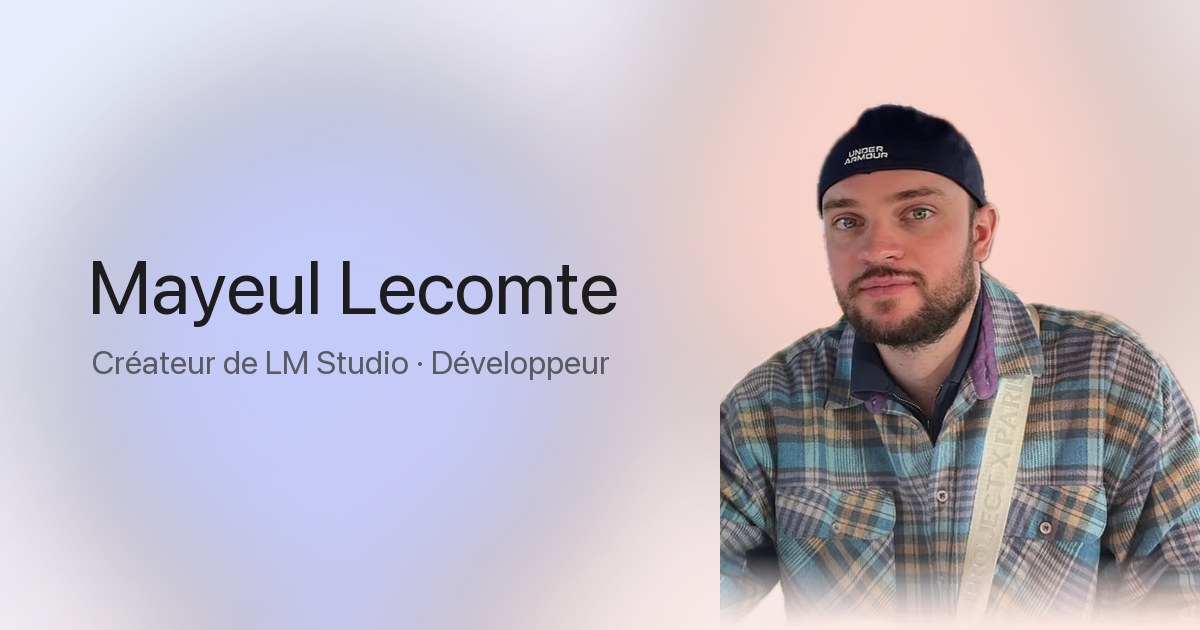
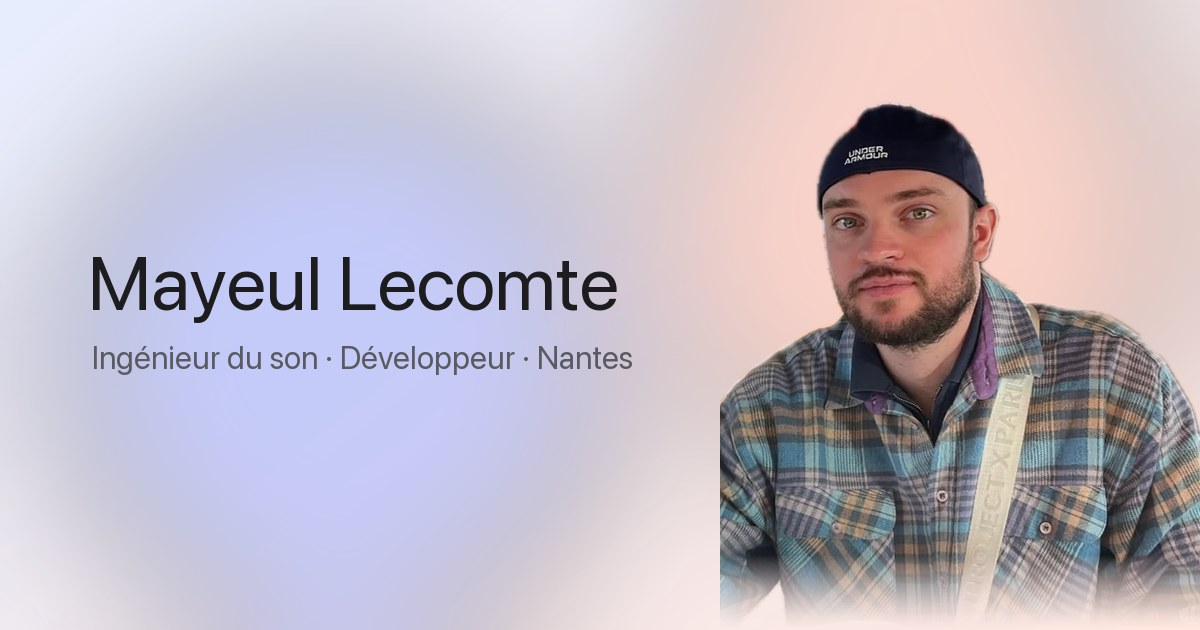
Positionnement ingenieur du son + developpeur, cadrage des bulles

Changed region(s): [[0.0617, 0.5429, 0.5242, 0.6032], [0.2775, 0.4222, 0.5242, 0.5127], [0.0617, 0.4222, 0.2467, 0.5127]]

diff --git a/index.html b/index.html
@@ -4,8 +4,8 @@
 <meta charset="utf-8">
 <meta name="viewport" content="width=device-width, initial-scale=1, viewport-fit=cover">
 
-<title>Mayeul Lecomte — Créateur de LM Studio, développeur à Nantes</title>
-<meta name="description" content="Mayeul Lecomte, Nantes. Créateur de LM Studio, studio d'enregistrement, et développeur d'applications web. Site officiel.">
+<title>Mayeul Lecomte — Ingénieur du son et développeur, Nantes</title>
+<meta name="description" content="Mayeul Lecomte, ingénieur du son et développeur à Nantes. Fondateur de LM Studio, studio d'enregistrement. Prise de voix, mixage, mastering et applications web.">
 <meta name="author" content="Mayeul Lecomte">
 <link rel="canonical" href="https://mayeullecomte.github.io/">
 <meta name="robots" content="index, follow, max-image-preview:large">
@@ -13,16 +13,16 @@
 
 <meta property="og:type" content="profile">
 <meta property="og:site_name" content="Mayeul Lecomte">
-<meta property="og:title" content="Mayeul Lecomte — Créateur de LM Studio, développeur">
-<meta property="og:description" content="Mayeul Lecomte, Nantes. Créateur du studio d'enregistrement LM Studio et développeur d'applications web.">
+<meta property="og:title" content="Mayeul Lecomte — Ingénieur du son et développeur">
+<meta property="og:description" content="Ingénieur du son et développeur à Nantes. Fondateur de LM Studio, studio d'enregistrement.">
 <meta property="og:url" content="https://mayeullecomte.github.io/">
 <meta property="og:image" content="https://mayeullecomte.github.io/assets/og.jpg">
 <meta property="og:locale" content="fr_FR">
 <meta property="profile:first_name" content="Mayeul">
 <meta property="profile:last_name" content="Lecomte">
 <meta name="twitter:card" content="summary_large_image">
-<meta name="twitter:title" content="Mayeul Lecomte — Créateur de LM Studio, développeur">
-<meta name="twitter:description" content="Créateur du studio d'enregistrement LM Studio à Nantes. Développeur.">
+<meta name="twitter:title" content="Mayeul Lecomte — Ingénieur du son et développeur">
+<meta name="twitter:description" content="Ingénieur du son et développeur à Nantes. Fondateur de LM Studio.">
 <meta name="twitter:image" content="https://mayeullecomte.github.io/assets/og.jpg">
 
 <link rel="preconnect" href="https://fonts.googleapis.com">
@@ -40,7 +40,7 @@
   "familyName":"Lecomte",
   "url":"https://mayeullecomte.github.io/",
   "image":"https://mayeullecomte.github.io/assets/og.jpg",
-  "jobTitle":["Fondateur de LM Studio","Développeur web"],
+  "jobTitle":["Ingénieur du son","Développeur web","Fondateur de LM Studio"],
   "address":{"@type":"PostalAddress","addressLocality":"Nantes","postalCode":"44000","addressCountry":"FR"},
   "worksFor":{
     "@type":"Organization",
@@ -49,7 +49,7 @@
     "description":"Studio d'enregistrement à Nantes",
     "address":{"@type":"PostalAddress","streetAddress":"88 avenue de la Baraudière","addressLocality":"Nantes","postalCode":"44000","addressCountry":"FR"}
   },
-  "knowsAbout":["Studio d'enregistrement","Mixage","Mastering","Développement web","JavaScript"],
+  "knowsAbout":["Ingénierie du son","Prise de voix","Mixage","Mastering","Développement web","JavaScript"],
   "sameAs":["https://lmstudio-nantes.fr","https://www.instagram.com/mayeul_lecomte/"]
 }
 </script>
@@ -81,7 +81,7 @@
     </div>
 
     <h1>Mayeul Lecomte</h1>
-    <p class="role">Créateur de <b>LM Studio</b>, à Nantes. Et <b>développeur</b>.</p>
+    <p class="role"><b>Ingénieur du son</b> et <b>développeur</b>. Fondateur de LM&nbsp;Studio, à Nantes.</p>
 
     <div class="cta">
       <a class="btn btn-primary reveal-mail" href="#contact"><span class="lbl">Me contacter</span> <span class="arrow">→</span></a>
@@ -90,8 +90,8 @@
   </section>
 
   <section class="wrap intro rise">
-    <p>Bonjour. Je passe mes journées entre deux tables&nbsp;: une console d'enregistrement et un clavier.</p>
-    <p>J'ai monté LM Studio à Nantes pour que les artistes du coin aient un endroit où poser leur voix sans se ruiner. Le reste du temps, je développe des applications web — de l'idée à la mise en ligne, seul aux commandes.</p>
+    <p>Deux métiers, la même exigence&nbsp;: que le résultat sonne juste.</p>
+    <p>J'ai fondé LM Studio à Nantes pour offrir aux artistes un lieu d'enregistrement à la hauteur de leurs projets&nbsp;: prise de voix, mixage, mastering. En parallèle, je conçois et développe des applications web, de la première maquette à la mise en ligne.</p>
   </section>
 
   <section id="studio" class="wrap">
@@ -100,7 +100,7 @@
       <div class="txt">
         <div class="eyebrow warm"><i></i> Mon studio</div>
         <h2>LM Studio</h2>
-        <p>Studio d'enregistrement à Nantes. Tout s'y passe&nbsp;: tarifs, matériel, réservation.</p>
+        <p>Studio d'enregistrement à Nantes. Prise de voix, mixage, mastering&nbsp;— tarifs, matériel et réservation sur le site.</p>
       </div>
       <span class="go"><span>lmstudio-nantes.fr</span> <span class="arrow">↗</span></span>
     </a>
@@ -108,7 +108,7 @@
 
   <section id="projets" class="wrap rise">
     <div class="eyebrow"><i></i> Développement</div>
-    <h2 style="font-size:clamp(1.8rem,4.2vw,2.6rem)">Ce que je construis</h2>
+    <h2 style="font-size:clamp(1.8rem,4.2vw,2.6rem)">Ce que je développe</h2>
     <div class="grid3">
       <div class="card proj">
         <h3>MySaphir</h3>
@@ -125,7 +125,7 @@
 
   <section id="contact" class="wrap contact rise">
     <h2>On en parle&nbsp;?</h2>
-    <p>Un morceau à enregistrer, un projet à développer.</p>
+    <p>Un enregistrement, un mixage, un projet web&nbsp;: parlons-en.</p>
     <div class="pills">
       <a class="pill reveal-mail" href="#contact"><span class="ico">✉</span> <span class="lbl">Afficher mon email</span></a>
       <a class="pill" href="https://www.instagram.com/mayeul_lecomte/" target="_blank" rel="noopener">📷 @mayeul_lecomte</a>

diff --git a/contact.html b/contact.html
@@ -5,7 +5,7 @@
 <meta name="viewport" content="width=device-width, initial-scale=1, viewport-fit=cover">
 
 <title>Contact — Mayeul Lecomte</title>
-<meta name="description" content="Contacter Mayeul Lecomte, créateur de LM Studio à Nantes et développeur : email et Instagram.">
+<meta name="description" content="Contacter Mayeul Lecomte, ingénieur du son et développeur à Nantes, fondateur de LM Studio : email et Instagram.">
 <link rel="canonical" href="https://mayeullecomte.github.io/contact.html">
 <meta name="robots" content="index, follow">
 <meta name="theme-color" content="#fbfbfd">
@@ -13,7 +13,7 @@
 <meta property="og:type" content="profile">
 <meta property="og:site_name" content="Mayeul Lecomte">
 <meta property="og:title" content="Contact — Mayeul Lecomte">
-<meta property="og:description" content="Écrire à Mayeul Lecomte, créateur de LM Studio à Nantes.">
+<meta property="og:description" content="Écrire à Mayeul Lecomte, ingénieur du son et développeur à Nantes.">
 <meta property="og:url" content="https://mayeullecomte.github.io/contact.html">
 <meta property="og:image" content="https://mayeullecomte.github.io/assets/og.jpg">
 <meta property="og:locale" content="fr_FR">
@@ -31,7 +31,7 @@
   background:conic-gradient(from 210deg,#cfe0ff,#dcd9ff,#e9d6ff,#ffd9cf,#d6f0ff,#cfe0ff);
   box-shadow:0 20px 40px -18px rgba(30,40,90,.4), inset 0 0 0 1px rgba(255,255,255,.7);
 }
-.contact-page .avatar img{width:130%;height:auto;max-width:none;margin-left:4%;margin-top:13%;display:block}
+.contact-page .avatar img{width:125%;height:auto;max-width:none;margin-left:-12.5%;margin-top:6%;display:block}
 .mail-line{
   display:inline-flex;align-items:center;gap:12px;margin-top:30px;padding:18px 30px;border-radius:999px;
   background:rgba(255,255,255,.75);border:1px solid var(--line);
@@ -55,7 +55,7 @@
   background:conic-gradient(from 210deg,#5e5ce6,#0a84ff,#6fd3e8,#ffb37a,#ff6b5a,#5e5ce6);
 }
 .ring-in{display:block;width:100%;height:100%;border-radius:50%;overflow:hidden;border:2.5px solid var(--bg);background:linear-gradient(155deg,#dfe7ff,#ffe4d8)}
-.ring-in img{width:130%;height:auto;max-width:none;margin-left:4%;margin-top:13%;display:block}
+.ring-in img{width:125%;height:auto;max-width:none;margin-left:-12.5%;margin-top:6%;display:block}
 .who{display:flex;flex-direction:column;line-height:1.25;flex:1;min-width:0}
 .who b{font-size:15.5px;font-weight:600;letter-spacing:-.02em}
 .who i{font-style:normal;font-size:13px;color:var(--muted)}
@@ -83,9 +83,9 @@
 
 <main>
   <section class="wrap contact contact-page">
-    <div class="avatar"><img src="assets/mayeul.png" alt="Mayeul Lecomte" width="842" height="860"></div>
+    <div class="avatar"><img src="assets/mayeul-rond.png" alt="Mayeul Lecomte" width="1086" height="860"></div>
     <h2>Écrivez-moi</h2>
-    <p>Un morceau à enregistrer, un projet à développer.</p>
+    <p>Un enregistrement, un mixage, un projet web&nbsp;: parlons-en.</p>
 
     <div>
       <a class="mail-line reveal-mail" href="#"><span class="ico">✉</span> <span class="lbl">Afficher mon email</span></a>
@@ -93,7 +93,7 @@
 
     <a class="insta" id="insta" href="https://www.instagram.com/mayeul_lecomte/" target="_blank" rel="noopener">
       <div class="insta-head">
-        <span class="ring"><span class="ring-in"><img src="assets/mayeul.png" alt="" width="842" height="860"></span></span>
+        <span class="ring"><span class="ring-in"><img src="assets/mayeul-rond.png" alt="" width="1086" height="860"></span></span>
         <span class="who">
           <b>@mayeul_lecomte</b>
           <i>Instagram</i>
